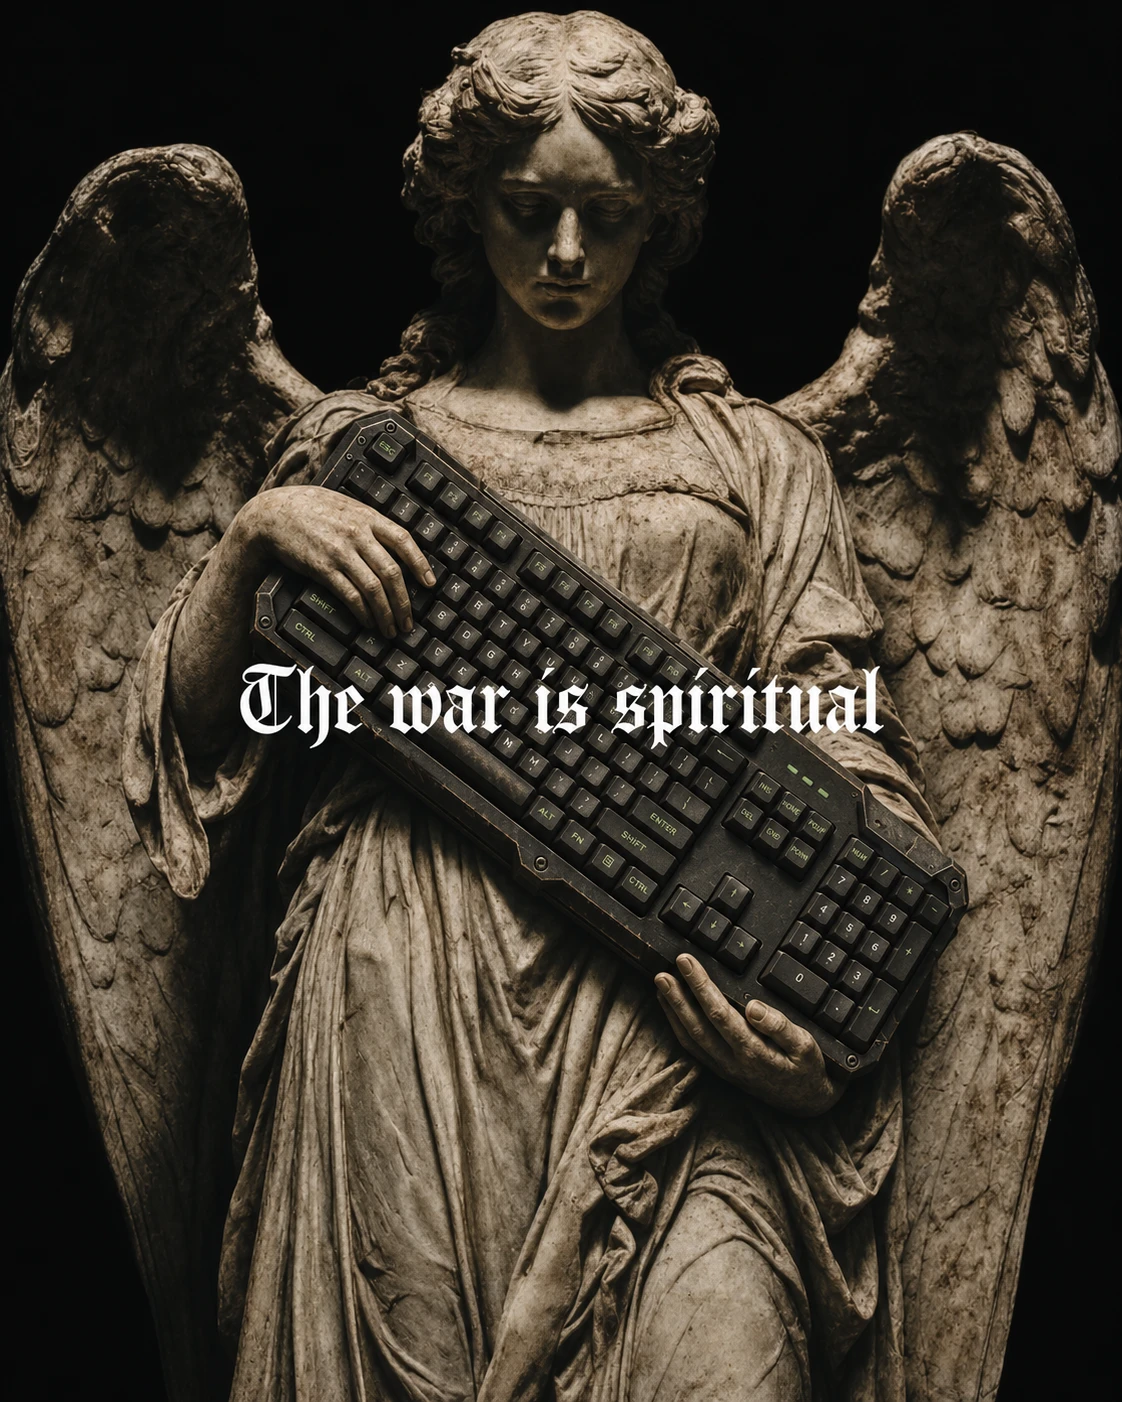
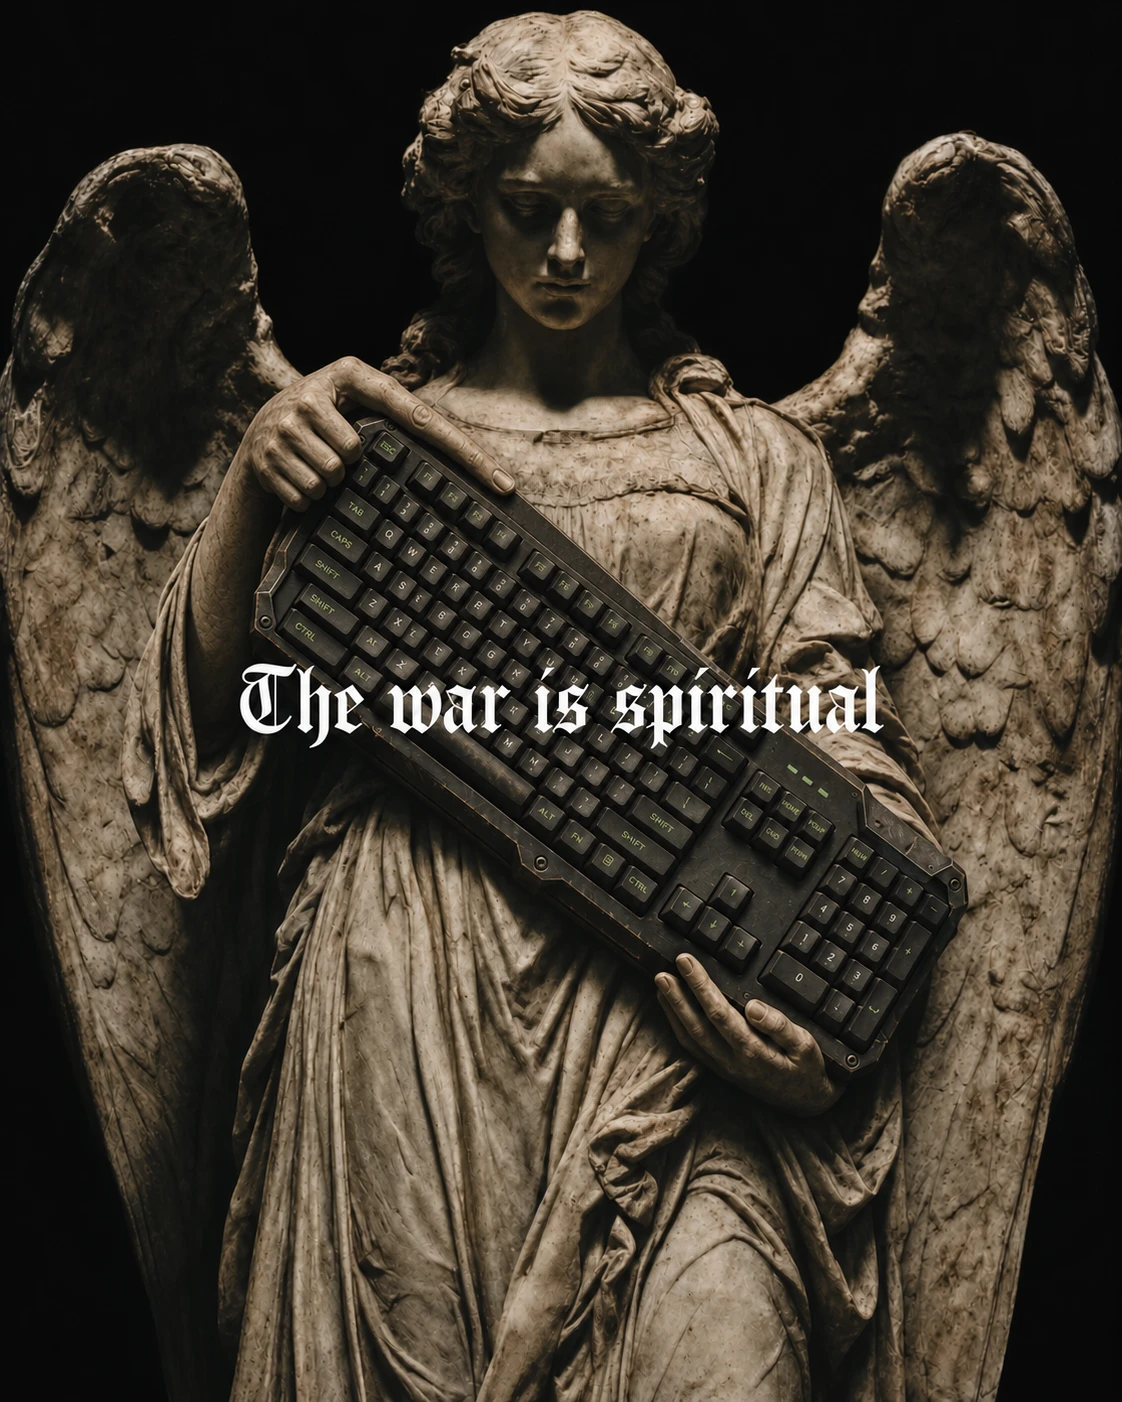
Keep the angel's index finger clear of the keys

diff --git a/green-preview/index.html b/green-preview/index.html
@@ -156,8 +156,8 @@
 </footer>
 <figure class="closing-artwork" id="closing-artwork">
   <div class="closing-portrait">
-    <img src="the-war-is-spiritual-keyboard.webp" width="1122" height="1402"
-         loading="lazy" alt="A stone angel carries a rugged computer keyboard across its chest. The caption reads ‘The war is spiritual’.">
+    <img src="the-war-is-spiritual-keyboard.webp?v=2" width="1122" height="1402"
+         loading="lazy" alt="A stone angel carries a rugged keyboard, index finger straight along its frame. The caption reads ‘The war is spiritual’.">
   </div>
 </figure>
 <script src="../profile-packs.js?v=69438b4" defer></script>
